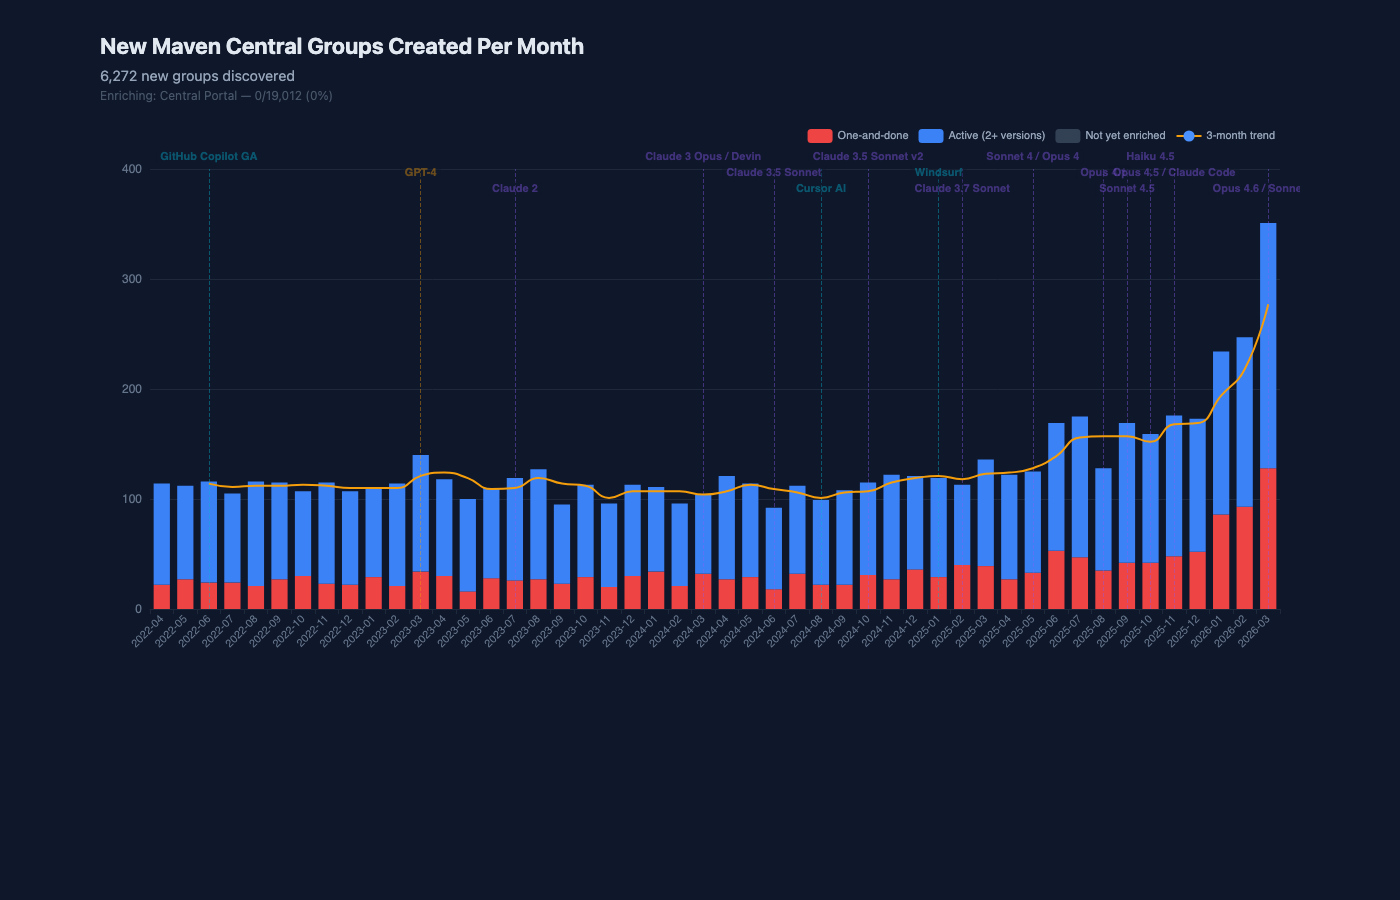
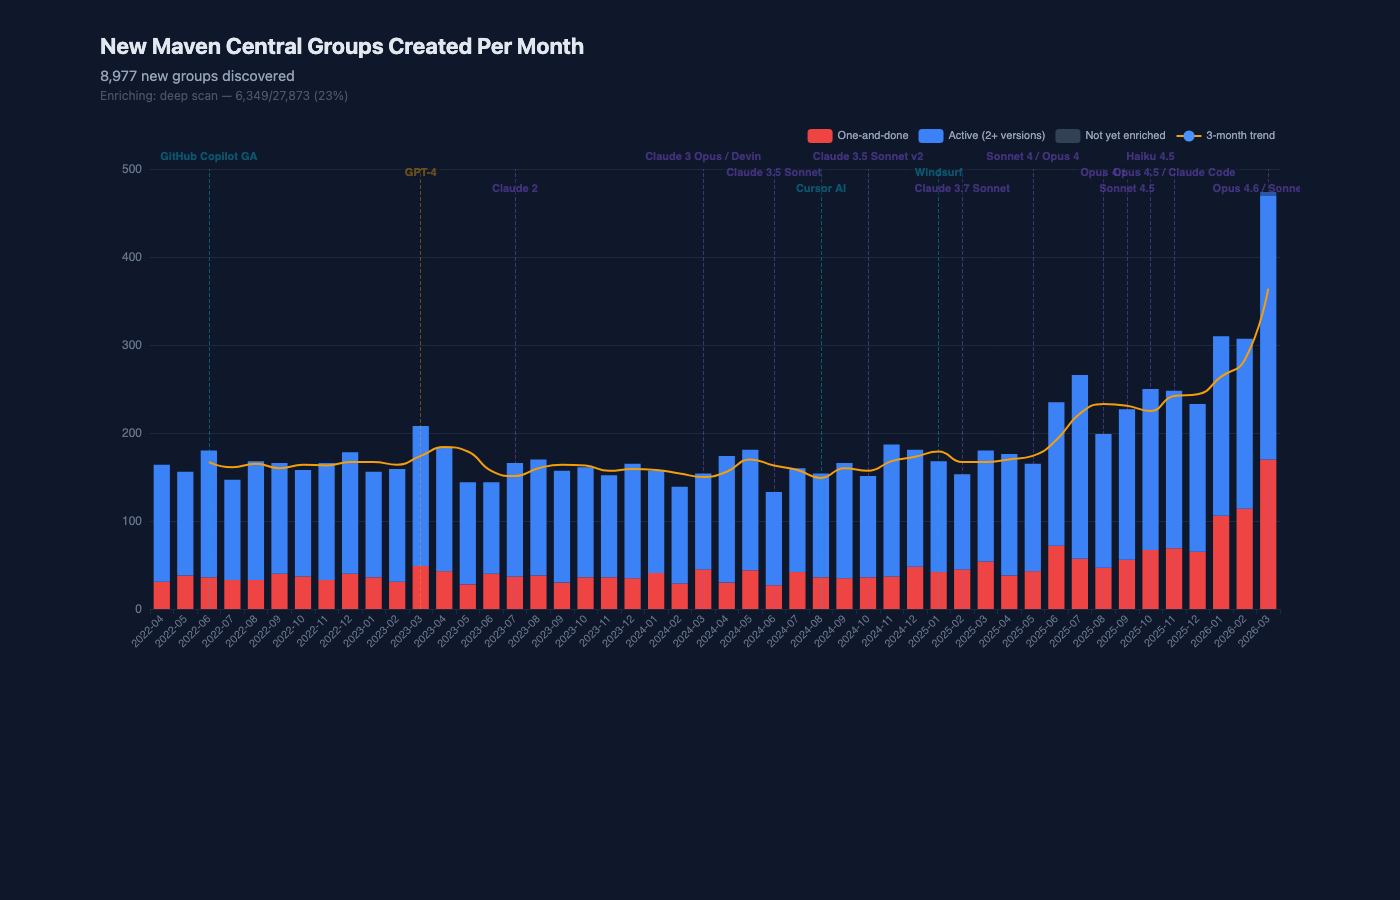
Update README for 10-chart dashboard with deep scan and screenshots
Rewrite README to reflect the full architecture: 28k groups from
two-phase scan (initial + deep), 5-phase enrichment pipeline,
10 interactive charts, and 16 API endpoints. Add dashboard
screenshot alongside the updated new-groups chart.

diff --git a/README.md b/README.md
@@ -4,26 +4,34 @@
 [![Go](https://img.shields.io/badge/Go-1.26-00ADD8?logo=go&logoColor=white)](https://go.dev)
 [![License](https://img.shields.io/badge/License-ISC-blue)](LICENSE)
 
-A Go service that visualises Maven Central publishing activity over time, with a focus on whether AI coding tools have increased the rate of new library creation.
+A Go service that tracks ~28,000 Maven Central namespaces to measure how AI coding tools affect library creation, quality, and community growth. 10 interactive charts with drill-down, powered by data from repo1.maven.org, deps.dev, OSV, Sonatype Central Portal, and GitHub.
 
 ![New Groups Per Month](docs/new-groups-chart.png)
 
-## Endpoints
+![Dashboard](docs/dashboard.png)
+
+## Charts
+
+All charts use ECharts with a dark theme, AI tool milestone annotations (Copilot GA, GPT-4, Claude releases, Cursor, etc.), and click-to-detail drill-down panels.
+
+| # | Chart | Route | What it shows |
+|---|-------|-------|---------------|
+| 1 | **New Groups Per Month** | `/new-groups-per-month` | New namespaces each month, stacked into one-and-done (red) vs active (blue). Click any bar to explore groups |
+| 2 | **New Groups By Prefix** | `/publishes-per-month` | Stacked area breaking down new groups by top-level prefix (com, org, io, dev, ai, etc.). Top 10 + Other |
+| 3 | **License Trends** | `/license-trends` | License distribution per month. Top 8 licenses stacked, click any segment to filter |
+| 4 | **Artifacts Per Month** | `/artifact-trends` | New artifacts across all groups with a linear trend line. Outliers capped at 500 |
+| 5 | **Versions Per Month** | `/version-trends` | Version counts from deps.dev enrichment with trend line. Outliers capped at 500 |
+| 6 | **Known CVEs** | `/cve-trends` | Groups with vulnerabilities by severity (Critical/High/Moderate/Low) + % affected trend |
+| 7 | **Source Repo Presence** | `/source-repos` | % of groups linking to a source repo over time, with trend line |
+| 8 | **Popularity Distribution** | `/popularity` | Log-scale histogram of dependent counts + top 25 most-depended-on groups |
+| 9 | **Group Size Distribution** | `/size-distribution` | Artifact count buckets (1 / 2-5 / 6-50 / 50+) stacked per month |
+| 10 | **Solo vs Team Contributors** | `/contributors` | Single-committer vs team projects over time, new-to-GitHub authors. Requires `GITHUB_TOKEN` |
+
+## API Endpoints
 
 | Endpoint | Description |
 |----------|-------------|
-| `GET /` | Index page with links to all charts and API endpoints |
-| `GET /health` | Health check |
-| `GET /new-groups-per-month` | New groups per month with one-and-done overlay |
-| `GET /publishes-per-month` | New groups by prefix (stacked area, top 10 + Other) |
-| `GET /license-trends` | License distribution per month |
-| `GET /artifact-trends` | New artifacts per month with trend line |
-| `GET /version-trends` | Version counts per month with trend line |
-| `GET /cve-trends` | CVEs by severity per month |
-| `GET /source-repos` | Source repo presence over time |
-| `GET /popularity` | Popularity distribution + top 25 groups |
-| `GET /size-distribution` | Group size (artifact count) distribution over time |
-| `GET /api/new-groups` | New groups per month JSON |
+| `GET /api/new-groups` | New groups per month |
 | `GET /api/new-groups/details?month=2025-07` | Groups created in a specific month |
 | `GET /api/scan-progress` | Live scan and enrichment progress |
 | `GET /api/groups-by-prefix` | New groups by prefix per month |
@@ -35,13 +43,14 @@ A Go service that visualises Maven Central publishing activity over time, with a
 | `GET /api/source-repos` | Source repo presence per month |
 | `GET /api/popularity` | Popularity distribution + top groups |
 | `GET /api/size-distribution` | Group size distribution by month |
+| `GET /api/contributors` | Solo vs team contributor stats per month |
 | `GET /api/group-popularity?namespace=com.foo` | On-demand popularity for a namespace |
 | `GET /api/new-artifacts-today` | New artifacts today (Solr) |
+| `GET /health` | Health check |
 
 ## Running
 
 ```bash
-# Install Go
 brew install go
 
 # Run directly
@@ -50,160 +59,86 @@ make run
 # Or build and run in background
 make build
 nohup ./bin/server > server.log 2>&1 &
+
+# With GitHub contributor enrichment (optional)
+GITHUB_TOKEN=$(gh auth token) ./bin/server
 ```
 
-The server starts on `:8080` (override with `PORT` env var). Set `LOG_LEVEL=debug` for verbose logging. On startup it begins background fetches to populate the SQLite database. The first run takes some time; subsequent runs resume from stored data.
+The server starts on `:8080` (override with `PORT`). Set `LOG_LEVEL=debug` for verbose logging.
+
+On first run, the server discovers ~28,000 Maven Central namespaces through a two-phase scan:
+1. **Initial scan**: Enumerates 26 top-level prefixes on repo1, discovering ~19,000 two-level groups
+2. **Deep scan**: Recurses into each group to find 3+ level namespaces (e.g. `com.fasterxml.jackson.core`), discovering ~9,000 more
+
+Subsequent runs resume from stored data via prefix-level checkpointing.
 
 ## Testing
 
-### Go tests
-
 ```bash
-make test
-
-# With coverage
-go test ./... -cover
+make test                          # Go unit tests
+go test ./... -cover               # with coverage
+npx playwright test                # E2E tests (server must be running)
+npx playwright test --headed       # with visible browser
 ```
 
 Coverage: config 100%, middleware 100%, store 84%, handler 19% (handler includes background goroutines that call external APIs).
-
-### Playwright E2E tests
-
-The server must be running on `:8080` before running Playwright tests.
-
-```bash
-npm install
-npx playwright install chromium
-
-npx playwright test
-npx playwright test --headed  # debug with visible browser
-```
 
 ## Architecture
 
 ### Data storage
 
-All data is stored in a SQLite database at `data/maven.db` (WAL mode).
+SQLite database at `data/maven.db` (WAL mode, single connection).
 
 | Table | Purpose |
 |-------|---------|
-| `groups` | All discovered Maven Central namespaces with enrichment data |
+| `groups` | ~28,000 Maven Central namespaces with enrichment data (license, CVEs, contributors, popularity) |
+| `contributors` | Per-group contributor list from GitHub |
 | `scan_progress` | Completed prefix scans for resume support |
 
-### Background tasks
+### Background pipeline
 
 Two goroutines start on boot:
 
-1. **New groups scan** — Enumerate 26 top-level prefixes on repo1, discover groups, call deps.dev for first-publish dates. Tracks completed prefixes for resume
-2. **Enrichment pipeline** — Runs after the scan completes, three sequential phases:
+1. **Group scan** — Enumerate 26 prefixes on repo1, discover groups, call deps.dev for first-publish dates
+2. **Enrichment pipeline** — Runs sequentially after scan completes:
+   - **Deep scan**: Discover 3+ level groupIds by recursing into existing groups
    - **deps.dev detail**: Fetch license, source repo, total version count (100ms throttle)
-   - **OSV CVEs**: Query api.osv.dev for vulnerability data across up to 5 artifacts per group (100ms throttle)
-   - **Central Portal**: Fetch popularity metrics from Sonatype (3s throttle, 60s backoff on 429)
+   - **OSV CVEs**: Query api.osv.dev across up to 5 artifacts per group (100ms throttle)
+   - **Central Portal**: Fetch popularity metrics (3s throttle, 60s backoff on 429)
+   - **GitHub**: Fetch contributor lists and account ages (1.2s throttle, requires `GITHUB_TOKEN`)
 
-### Charts
+### Data sources
 
-All charts use a dark theme and include AI tool milestone annotations. All are clickable — click any bar to drill into the groups created that month.
+| Source | What we get | Auth | Rate limits |
+|--------|-------------|------|-------------|
+| **repo1.maven.org** | Namespace/artifact enumeration | None | None observed |
+| **api.deps.dev** | Version history, licenses, source repos | None | None observed |
+| **api.osv.dev** | CVE counts and severity | None | None observed |
+| **central.sonatype.com** | Dependent counts, app counts | None | 429 after ~100 reqs |
+| **api.github.com** | Contributors, account ages | `GITHUB_TOKEN` | 5,000/hr |
 
-| Chart | Data source |
-|-------|-------------|
-| New groups per month | All 26 prefixes, with one-and-done stacked overlay |
-| New groups by prefix | Stacked area, top 10 prefixes + Other |
-| License trends | deps.dev enrichment (top 8 licenses + Other) |
-| Artifact trends | All groups, outliers capped at 500 |
-| Version trends | deps.dev enrichment, outliers capped at 500 |
-| CVE trends | OSV enrichment, severity breakdown per month |
-| Source repo presence | deps.dev enrichment, with/without repo stacked |
-| Popularity distribution | Portal enrichment, log-scale histogram + top 25 |
-| Group size distribution | Artifact count buckets per month |
+### How the scan works
 
-All charts use ECharts with a dark theme, AI tool milestone annotations, and click-to-detail drill-down panels.
+Maven Central organises packages as `groupId:artifactId` where `groupId` uses reverse-domain notation (e.g. `com.google.cloud`). repo1 exposes this as a directory tree: `com/google/cloud/`.
 
-## Data Sources
+The scanner:
+1. Lists 26 top-level prefixes (`ai`, `com`, `dev`, `io`, `org`, etc.)
+2. For each prefix, lists subdirectories to get two-level groups (`com.google`, `org.apache`)
+3. **Deep scan**: For each two-level group, checks children — if a child directory contains more directories (not version numbers), it's a deeper namespace and gets registered (e.g. `com.google.cloud`, `org.apache.commons`)
+4. For each group, calls deps.dev to find the first artifact's earliest publish date
+5. Heuristic: entries containing hyphens are skipped during deep scan (artifact names like `spring-boot-starter`, not namespace components like `boot`)
 
-### repo1.maven.org (Maven Central Repository)
-
-The actual Maven Central repository at `https://repo1.maven.org/maven2/`. Provides HTML directory listings of all groups, sub-groups, and artifacts. Used for **enumeration** — discovering what exists.
-
-- **URL pattern**: `https://repo1.maven.org/maven2/{group/path}/`
-- **No authentication** or rate limits
-- **Always current** — this IS the repository
-- **Limitations**: No search, no timestamps, HTML only (requires scraping)
-
-### api.deps.dev (Google Open Source Insights)
-
-Google's open-source dependency database at `https://api.deps.dev/v3alpha/`. Returns complete version history with precise publish timestamps. Used for **timestamping** and **enrichment**.
-
-- **URL pattern**: `https://api.deps.dev/v3alpha/systems/maven/packages/{groupId}%3A{artifactId}`
-- **No authentication** or rate limits observed
-- **Complete history** — every version with `publishedAt` in RFC 3339 format
-- **Limitations**: No namespace enumeration (must know exact groupId:artifactId)
-
-### api.osv.dev (OSV Vulnerability Database)
-
-Google's open-source vulnerability database. Returns CVE data for Maven packages.
-
-- **Endpoint**: `POST https://api.osv.dev/v1/query`
-- **Fields used**: CVE count, maximum severity (CRITICAL, HIGH, MODERATE, LOW)
-- **No authentication** required
-
-### central.sonatype.com (Sonatype Central Portal)
-
-Popularity metrics from the Sonatype Central Portal's internal browse API.
-
-- **Endpoint**: `POST https://central.sonatype.com/api/internal/browse/components`
-- **Fields used**: `dependentOnCount`, `nsPopularityAppCount`, `nsPopularityOrgCount`
-- **Rate limited** — returns 429 after ~100 rapid requests
-- **Undocumented internal API** — could change without notice
-
-## How It Works
-
-### New Groups Per Month (bar chart with one-and-done overlay)
-
-Counts how many new group namespaces first appeared each month. Bars are stacked: red = one-and-done (single version only), blue = active (2+ versions), grey = not yet enriched.
-
-**Process:**
-1. Scrape repo1 top-level directories for 26 prefixes to enumerate ~19,000 group namespaces
-2. For each group, call deps.dev to find the earliest version's `publishedAt` date
-3. Bucket by month; enrichment adds version counts for one-and-done classification
-4. Click any bar to see groups created that month, grouped by prefix, with lazy-loaded popularity data
-
-### Enrichment charts
-
-Built from the three enrichment phases. All feature milestone annotations and click-to-detail:
-
-- **Groups by prefix**: Stacked area showing top 10 prefixes (com, org, io, dev, etc.) + Other
-- **License trends**: Top 8 licenses stacked per month, click any segment to filter
-- **Artifact trends**: Total artifacts per month across all groups (outliers capped at 500)
-- **Version trends**: Total versions per month from deps.dev enrichment (outliers capped at 500)
-- **CVE trends**: Groups with known vulnerabilities by severity, % affected trend line
-- **Source repo presence**: % of groups linking to a source repository over time
-- **Popularity distribution**: Log-scale histogram of dependent counts + top 25 groups
-- **Group size distribution**: Artifact count buckets (1 / 2-5 / 6-50 / 50+) stacked per month
-
-### Partial Month Handling
+### Partial month handling
 
 The current month is excluded from all charts unless it's the 30th or 31st, to avoid misleadingly low bars for incomplete months.
 
-### Resume & Progress
-
-Data is stored in SQLite with prefix-level checkpointing. On restart:
-- Version fetcher skips namespaces already in the DB
-- Group scanner resumes from the last incomplete prefix
-- Enrichment resumes from unenriched groups (`enriched_*` flags)
-- The `/api/scan-progress` endpoint exposes live scan and enrichment state
-
 ## Other Approaches Attempted
 
-Several data sources were evaluated before settling on deps.dev + repo1. All had significant limitations:
-
-| Source | Data Current? | Historical? | Namespace Filter? | Rate Limits | Verdict |
-|--------|:---:|:---:|:---:|:---:|---------|
-| **Solr Search API** (`search.maven.org`) | Only for `org.apache.*` | Yes (pre-June 2025) | Wildcard `g:prefix.*` | Aggressive (returns HTML) | Index stale for most groups after June 2025 |
-| **Central Portal Components** (`central.sonatype.com`) | Yes | No (latest version only) | Exact namespace | 429 after ~100 requests | Cannot query historical time ranges |
-| **Central Portal Versions** | Yes | Broken sort | Exact namespace | Same as above | Sort by `publishedDate` returns random order |
-| **Hybrid Solr + Central Portal** | Partial | Partial | Both | Both | 9-month gap between Solr coverage and Portal usefulness |
-| **mvnrepository.com** | Yes (website) | Yes (website) | N/A | HTTP 403 for all API calls | No programmatic access |
-| **libraries.io** | Lags behind | Unreliable timestamps | Requires API key | Auth required | Maven data quality too low |
-| **repo1.maven.org alone** | Yes | No timestamps | Manual path traversal | None | No publish dates, only directory listings |
-| **deps.dev alone** | Yes | Yes | No enumeration | None observed | Cannot discover what exists, only look up known packages |
-| **deps.dev + repo1** | **Yes** | **Yes** | **Via repo1 scraping** | **None observed** | **Chosen approach** |
+| Source | Verdict |
+|--------|---------|
+| **Solr Search API** (`search.maven.org`) | Index stale for most groups after June 2025, aggressive rate limiting |
+| **Central Portal Components** | Latest version date only, can't query historical ranges |
+| **Central Portal Versions** | Sort by `publishedDate` is broken (random order) |
+| **mvnrepository.com** | HTTP 403 for all API calls |
+| **libraries.io** | Maven data quality too low, requires API key |
+| **deps.dev + repo1** | **Chosen approach** — repo1 for enumeration, deps.dev for timestamps |
